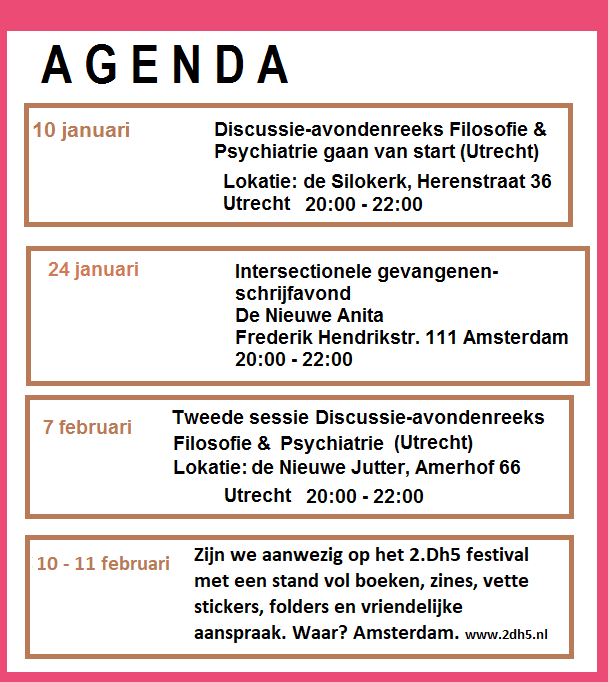
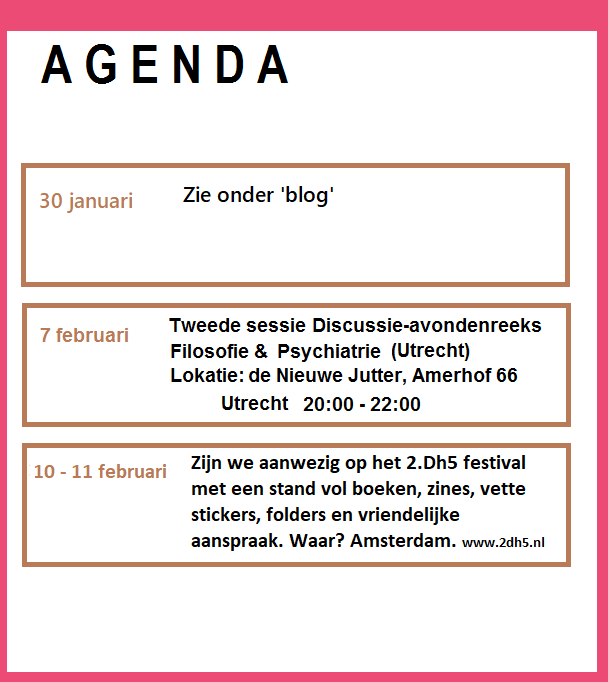
28 jan

Changed region(s): [[0.0312, 0.154, 0.9688, 0.9853]]

diff --git a/blog.html b/blog.html
@@ -65,7 +65,8 @@
 
 <h2>Blog</h2>
 <p>Hier komen elke vierde maandag van de maand nieuwe artkelen op!<br><br>
-NIEUW: <a href=#24jan>Wet Verplichte GGZ aangenomen: en nu?</a><br><br>
+NIEUW: <a href=#29jan>30 Januari in Heiloo: Een plek met een geschiedenis</a><br><br>
+Ook nieuw: <a href=#24jan>Wet Verplichte GGZ aangenomen: en nu?</a><br><br>
 Oude artikelen:<br>
 - <a href=#25dec>Vechten voor meer vrijheid: op naar 2018</a><br>
 - <a href=#11dec>Over het nut van verwardheid</a><br>
@@ -79,6 +80,58 @@ Oude artikelen:<br>
 </section>
 
 
+
+<section class= "middelen4">
+
+<h2 id=29jan>30 Januari naar Heiloo: Een plek met een geschiedenis</h2>
+<p>
+<i>Gepost op 28 Januari, auteur: Allolalie.</i><br><br>
+
+
+<i><b>"De onvrijwillige castratie van de minderjarige Henk Heithuis in een Katholiek internaat in de jaren vijftig zorgt voor veel commotie. De vraag rijst waarom commissie-Deetman het voorval niet heeft opgenomen in haar rapport. Historicus Hans Renders meent dat de commotie terecht is, maar dat castraties bij psychiatrische instellingen in de jaren veertig en vijftig de normale gang van zaken was." (Historisch Nieuwsblad, 2012).
+</i></b>
+<br><br>
+
+Gedwongen castraties waren een normale gang van zaken in de <b>Cultuurkoepel Heiloo</b>, een psychiatrisch gesticht toentertijd. Geschiedde het niet strikt gedwongen, dan gebeurde het wel met veel (sociale) drang. Wie de castratie immers niet zou accepteren, zou verstoten worden.
+<br><br>
+Op <b>30 januari</b> komen op deze <b>historisch discutabele locatie</b> allemaal vertegenwoordigers vanuit ministeries, politiewezen, justitie, gemeente, GGZ en woningcorporaties samen om te praten over <a href="www.sbo.nl/veiligheid/congres-personen-verward-gedrag/">‘personen met verward gedrag’</a>.<br><br>
+
+Rond het begrip ‘verward gedrag’ of ‘verwarde persoon’ is een hele stigmatiserende hetze ontstaan tegen eenieder die anders doet, onder een valse verwijzing naar een zeldzame groep voorvallen. Nu wordt zelfs het stijgende moordcijfer aan hen geweten, en de politiechef van Rotterdam noemde ‘verwarde personen’ laatst zelfs nog erger dan ‘terroristen’ – daarmee uiteraard de staatsterreur van dwang en politiegeweld niet meerekenend. Op het congres zal op enkele presentaties eenzelfde toon klinken. Onder de vage term ‘verwarde personen’ worden zij die anders doen steevast gepresenteerd als een groep ‘waarmee je de samenleving niet moet willen opzadelen’, omdat ‘je weet dat het misgaat’ met deze ‘ernstig verwarde mensen’.<br><br>
+<br><br>
+<b><i>We nodigen je daarom uit die mooie regenboogvlag uit de kast te halen en bij de Cultuurkoepel Heiloo te komen staan, een kritisch tegengeluid op social media te verspreiden onder de hashtag van het congres #personenmetverwardgedrag, of bedenk iets anders creatiefs.</i></b>
+<br><br><b>
+
+Transfobische psychiatrie</b><br>
+De psychiater à Campo is een van de veelgehoorde stemmen in de ‘verwarde personen’ draaimolen, en een psychiater die veel publicaties op zijn naam heeft waarin hij stelt dat transgenders lijden aan een ‘genderidentiteitsstoornis’. Ook vandaag hebben we onze ‘blinde vlekken’ die doorwerken in het spreken over ‘verwarde personen’ en ‘psychiatrisch patiënten’.<br><br>
+
+<b>Heteronorme psychiatrie</b><br>
+Naast transfobe, heersen er ook nog steed heteronorme opvattingen in het hedendaagse DSM. Zo pathologiseert de categorie van de ‘genito-pelvic pain/ penetration disorder’ ofwel ‘vaginismus’ het niet-willen van penetrerende seksuele gemeenschap. Aseksuele en lesbische vrouwen worden daarmee gepsychiatriseerd.<br><br>
+
+<b>Depolitiserende psychiatrie</b><br>
+Ook onderschatten veel behandelaars, nog steeds vaak heteroseksuele, witte cis-mannen, het structurele stigma waaronder veel niet gender-conformerende en niet-heterosekuele mensen gebukt gaan – zoals de angst om in elkaar geslagen te worden op straat. Zij ‘leren’ hiermee omgaan in therapie door ‘deze negatieve gedachten’ te onderdrukken, de discriminerende realiteit in een psychische doofpot te stoppen, en ‘zich maar gewoon in te vechten’ in de maatschappij.<br><br>
+Bovendien worden veel mensen die vereenzamen, in de knel raken en gestresst en gefrustreerd reageren op hun toenemende armoede en lasten, steeds vaker als ‘verward persoon’ weggezet om de problemen te depolitiseren en te individualiseren. Vervolgens worden zij het subject van een reeks repressieve maatregelen, zoals intensievere gedwongen behandeling, monitoring en huisbezoeken. Zo kregen sociale huurders in Rotterdam ineens een bezoekje van de GGZ als ze hun huur niet op tijd betaalden.<br><br>
+
+<b>Nieuwe wet</b><br>
+De hele ‘verwarde personen’ discussie heeft tevens gediend om dwang in de psychiatrische zorg makkelijker te maken. Dwang vindt dan wel plaats buiten de inrichting, bij iemand thuis, maar is daarmee nog steeds ingrijpend, vrijheidsberovend en traumatisch. Bovendien toont onderzoek uit landen waar men al 10 jaar bezig is met dwangzorg in de gemeenschap, dat dit geen effect heeft.<br><br>
+De wet heeft nog een ander negatief effect: de familie krijgt een grotere rol in het verzoeken om een dwangbehandeling en in de vormgeving hiervan. Gender-onconforme en niet-heteroseksuele mensen die niet gesteund worden in hun identiteit door hun familie komen hiermee extra onder druk te staan.<br><br>
+
+<b>De discussie over ‘verwarde personen’ is een onderdeel van een bredere tendens. Een tendens waarin de Staat zich indamt tegen de sociale onrust die ze ziet opkomen vanuit onderop. Allerlei categorieën die het al extra zwaar hebben onder de Staat, worden onder de kop ‘verwarde persoon’ genoemd: de arme, de migrant, de gepsychiatriseerde, mensen met een beperking, uitgebluste loonslaven en zelfs politieke dissidenten. Zo was er een aantal jaar terug een demonstrant uit de Tweede Kamer gehaald als ‘verward persoon’ – en zelfs nadat de psychiater had geconstateerd dat hem niks mankeerde, liet de politie hem niet gaan.<br><br>
+De discussie over ‘verwarde personen’ is een dekmantel voor de Staat om nog meer informatie en invloed te winnen over individuen onder een allerlei incidentenpolitiek. Het is onderdeel van een denken dat steeds meer spontane verschijnselen in het publieke leven als ‘verstorend’ weg-reguleert of anders wel met geweld afvoert.<br><br>
+
+
+</p>
+</section>
+
+
+
+<section class= "middelen3">
+
+
+
+
+</p>
+
+</section>
 
 
 <section class= "middelen4">
@@ -303,6 +356,16 @@ Verder zou ik graag aandacht willen voor de 'gepsychiatriseerde' mensen die over
 
 </section>
 
+
+
+<section class= "middelen3">
+
+
+
+
+</p>
+
+</section>
 
 <section class= "12okt">
 <h2 id="empowerment">Tegenlezing bij Filosofestival, 16 September</h2>
